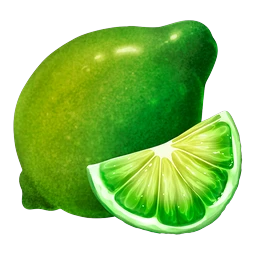
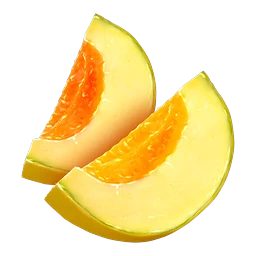
Fusion round 7: monkey-business, shark-hunter
Claude-Session: https://claude.ai/code/session_01LcC21fng844zb5K8BRYuAt

diff --git a/LuckyVault/public/sw.js b/LuckyVault/public/sw.js
@@ -1,5 +1,5 @@
 // Offline cache for the game client (API calls always go to the network).
-const V = 'lv-v184';
+const V = 'lv-v185';
 const FILES = ['./', './index.html', './config.js', './manifest.webmanifest', './js/slots-engine.js', './js/catalog.js', './js/tables-engine.js', './js/tables-ui.js', './js/social.js', './js/fx.js', './js/feat-ui.js', './js/hov-ui.js', './js/roadmap.js', './js/vegas.js', './js/rules.js', './js/onboard.js', './js/friends-ui.js', './js/rg.js', './js/support-ui.js', './js/replay.js', './js/fx2.js', './js/i18n.js', './js/iap.js', './assets/fonts/Anton.woff2', './assets/fonts/Cinzel.woff2', './icons/icon-192.png', './icons/icon-512.png'];
 self.addEventListener('install', e => { e.waitUntil(caches.open(V).then(c => c.addAll(FILES)).then(() => self.skipWaiting())); });
 self.addEventListener('activate', e => { e.waitUntil(caches.keys().then(ks => Promise.all(ks.filter(k => k !== V).map(k => caches.delete(k)))).then(() => self.clients.claim())); });

diff --git a/LuckyVault/tools/build_fusion.py b/LuckyVault/tools/build_fusion.py
@@ -63,6 +63,7 @@ def hue(dst, deg):
     h = h.point(lambda x: (x + int(deg * 255 / 360)) % 256); out = Image.merge('HSV', (h, s_, v)).convert('RGB').convert('RGBA'); out.putalpha(a); out.save(dst, 'WEBP', quality=90)
 SA = CP + 'rpg-stone-age-game-512x512-icons/PNG/without background/'
 FR = CP + 'fruits-berries-vegetables-icon-512x512-set/PNG/without background/'
+SEA = '/tmp/packs/rpg-sea-loot-icons/PNG/without background/'
 MK = CP + 'rpg-monk-skill-game-icons/PNG/'
 FL = CP + 'fairy-loot-game-icons/PNG/without_shadow/'
 K = ['h1', 'h2', 'h3', 'h4', 'l1', 'l2', 'l3', 'l4', 'l5', 'W', 'S']
@@ -114,6 +115,11 @@ G = {
  # ---- batch 6: classic fruit trio shared one kit (7/9 identical) -> 7+BAR recoloured, fruits from the 512 painted set ----
  'vegas-wheel-7s': dict(src=[None, None] + P(FR, 43, 13, 15, 29, 46) + [None] * 4, hue=(230, ['h1', 'h2']), glow=(150, 160, 255)),
  'triple-fortune-wilds': dict(src=[None, None] + P(FR, 44, 16, 30, 31, 35) + [None] * 4, hue=(140, ['h1', 'h2']), glow=(120, 255, 190)),
+ # ---- batch 7: per-key duplicate check ----
+ # Monkey Business: h1,h2,h4,l2 identical to jungle-reels -> banana bunch, mango, papaya, melon (512 painted fruit)
+ 'monkey-business': dict(src=P(FR, 27, 11) + [None] + P(FR, 14) + [None] + P(FR, 13) + [None] * 5, glow=(200, 255, 110)),
+ # Shark Hunter: 6 keys shared with ocean-treasure / ocean-wilds -> sea loot (shark, tentacle, scallop, starfish, pearls, oyster)
+ 'shark-hunter': dict(src=[None] + P(SEA, 31, 21) + [None] + P(SEA, 14, 19, 12) + [None] + P(SEA, 10) + [None, None], glow=(110, 210, 255)),
 }
 todo = sys.argv[1:] or list(G)
 for slug in todo:

diff --git a/LuckyVault/CHANGELOG.md b/LuckyVault/CHANGELOG.md
@@ -693,3 +693,8 @@ Frame-by-frame phone QA (idle, bet, deal x8, result, squeeze) in 中文 and Engl
 
 ## Round 94 (17:17) 素材融合第 6 批
 - 拉斯维加斯转轮 7s、三重财富百搭（与拉斯维加斯之夜共用同一套经典水果，7/9 相同）：7 和 BAR 分别改成蓝紫色、青绿色，水果换成 512 彩绘水果包里其他品种（猕猴桃、蜜瓜、苹果、梨、李子 / 异域果、椰子、樱桃、树莓、杏）
+
+## Round 95 (17:41) 素材融合第 7 批（逐个符号比对）
+- 猴子派对：与丛林转轴相同的 4 个符号 → 香蕉、芒果、木瓜、蜜瓜
+- 鲨鱼猎人：与海洋宝藏/海洋百搭共用的 6 个符号 → 海洋战利品包（鲨鱼、触手、扇贝、海星、珍珠、珍珠贝）
+- 全量 slot_smoke：200 次中 1 次「宇宙抉择」卡在忙碌状态，之后同一页面连续 14 款出现 400；单独对宇宙抉择连转 60 次未复现，继续观察
